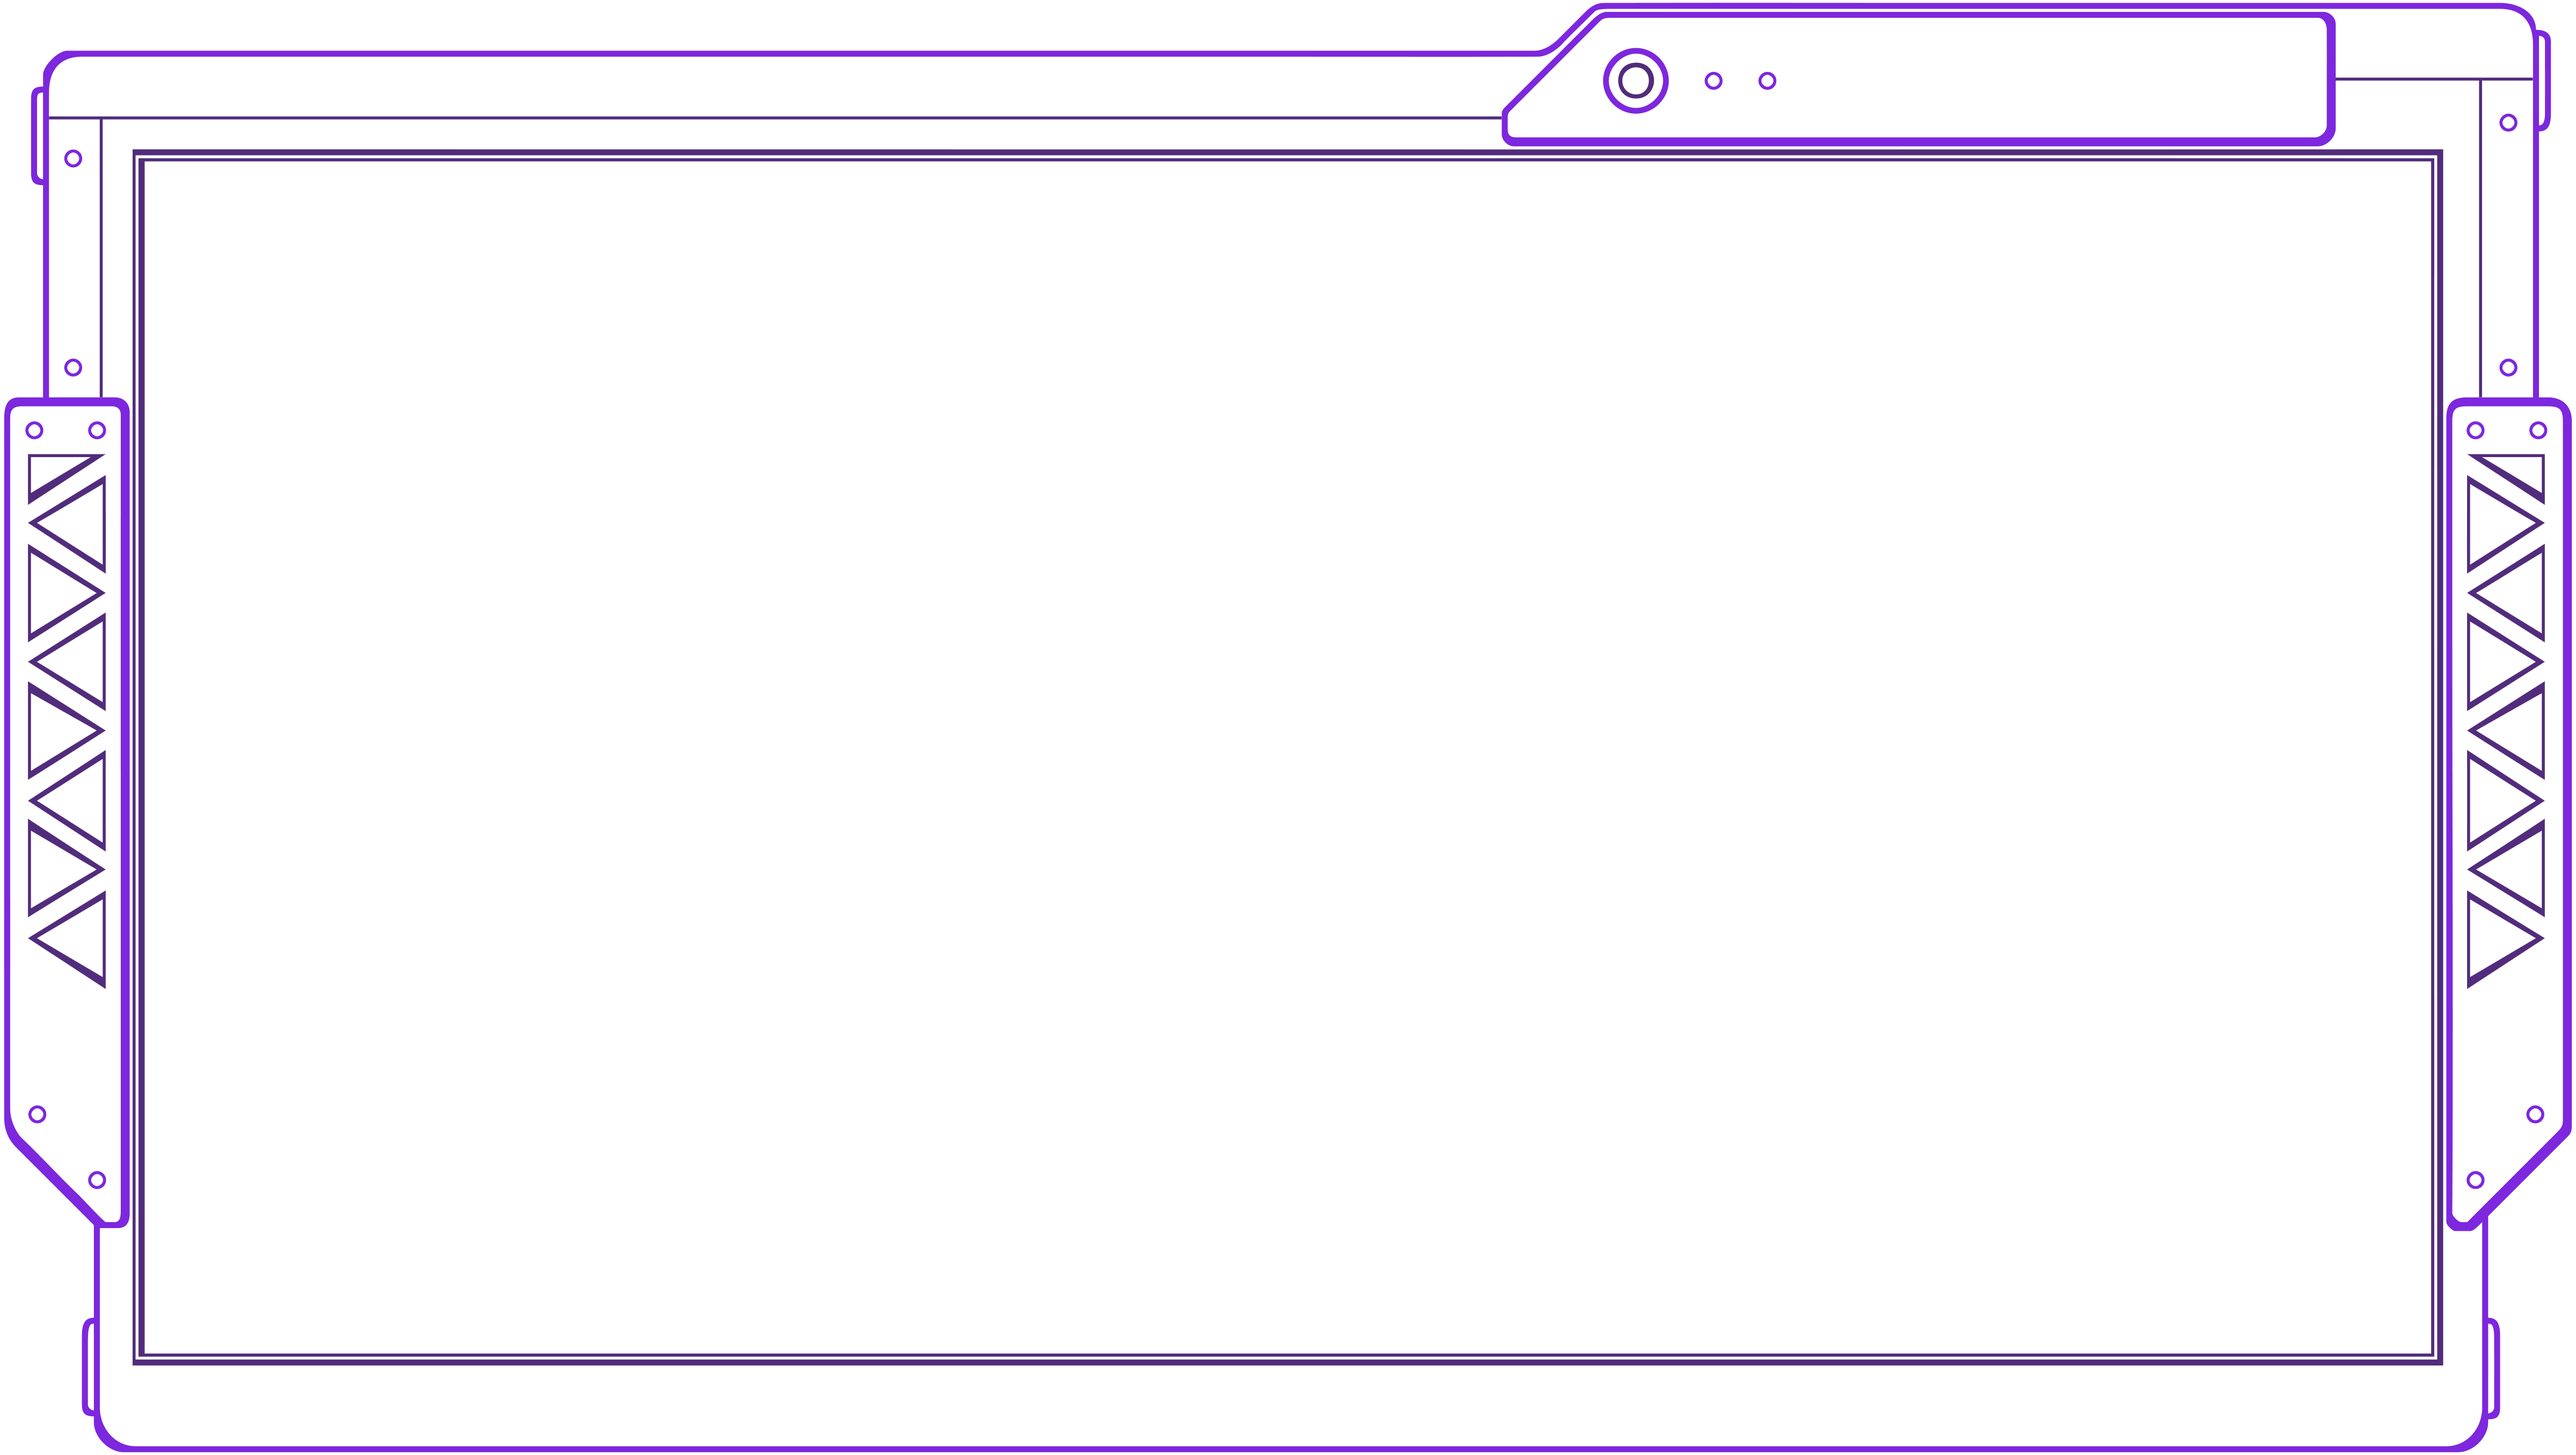
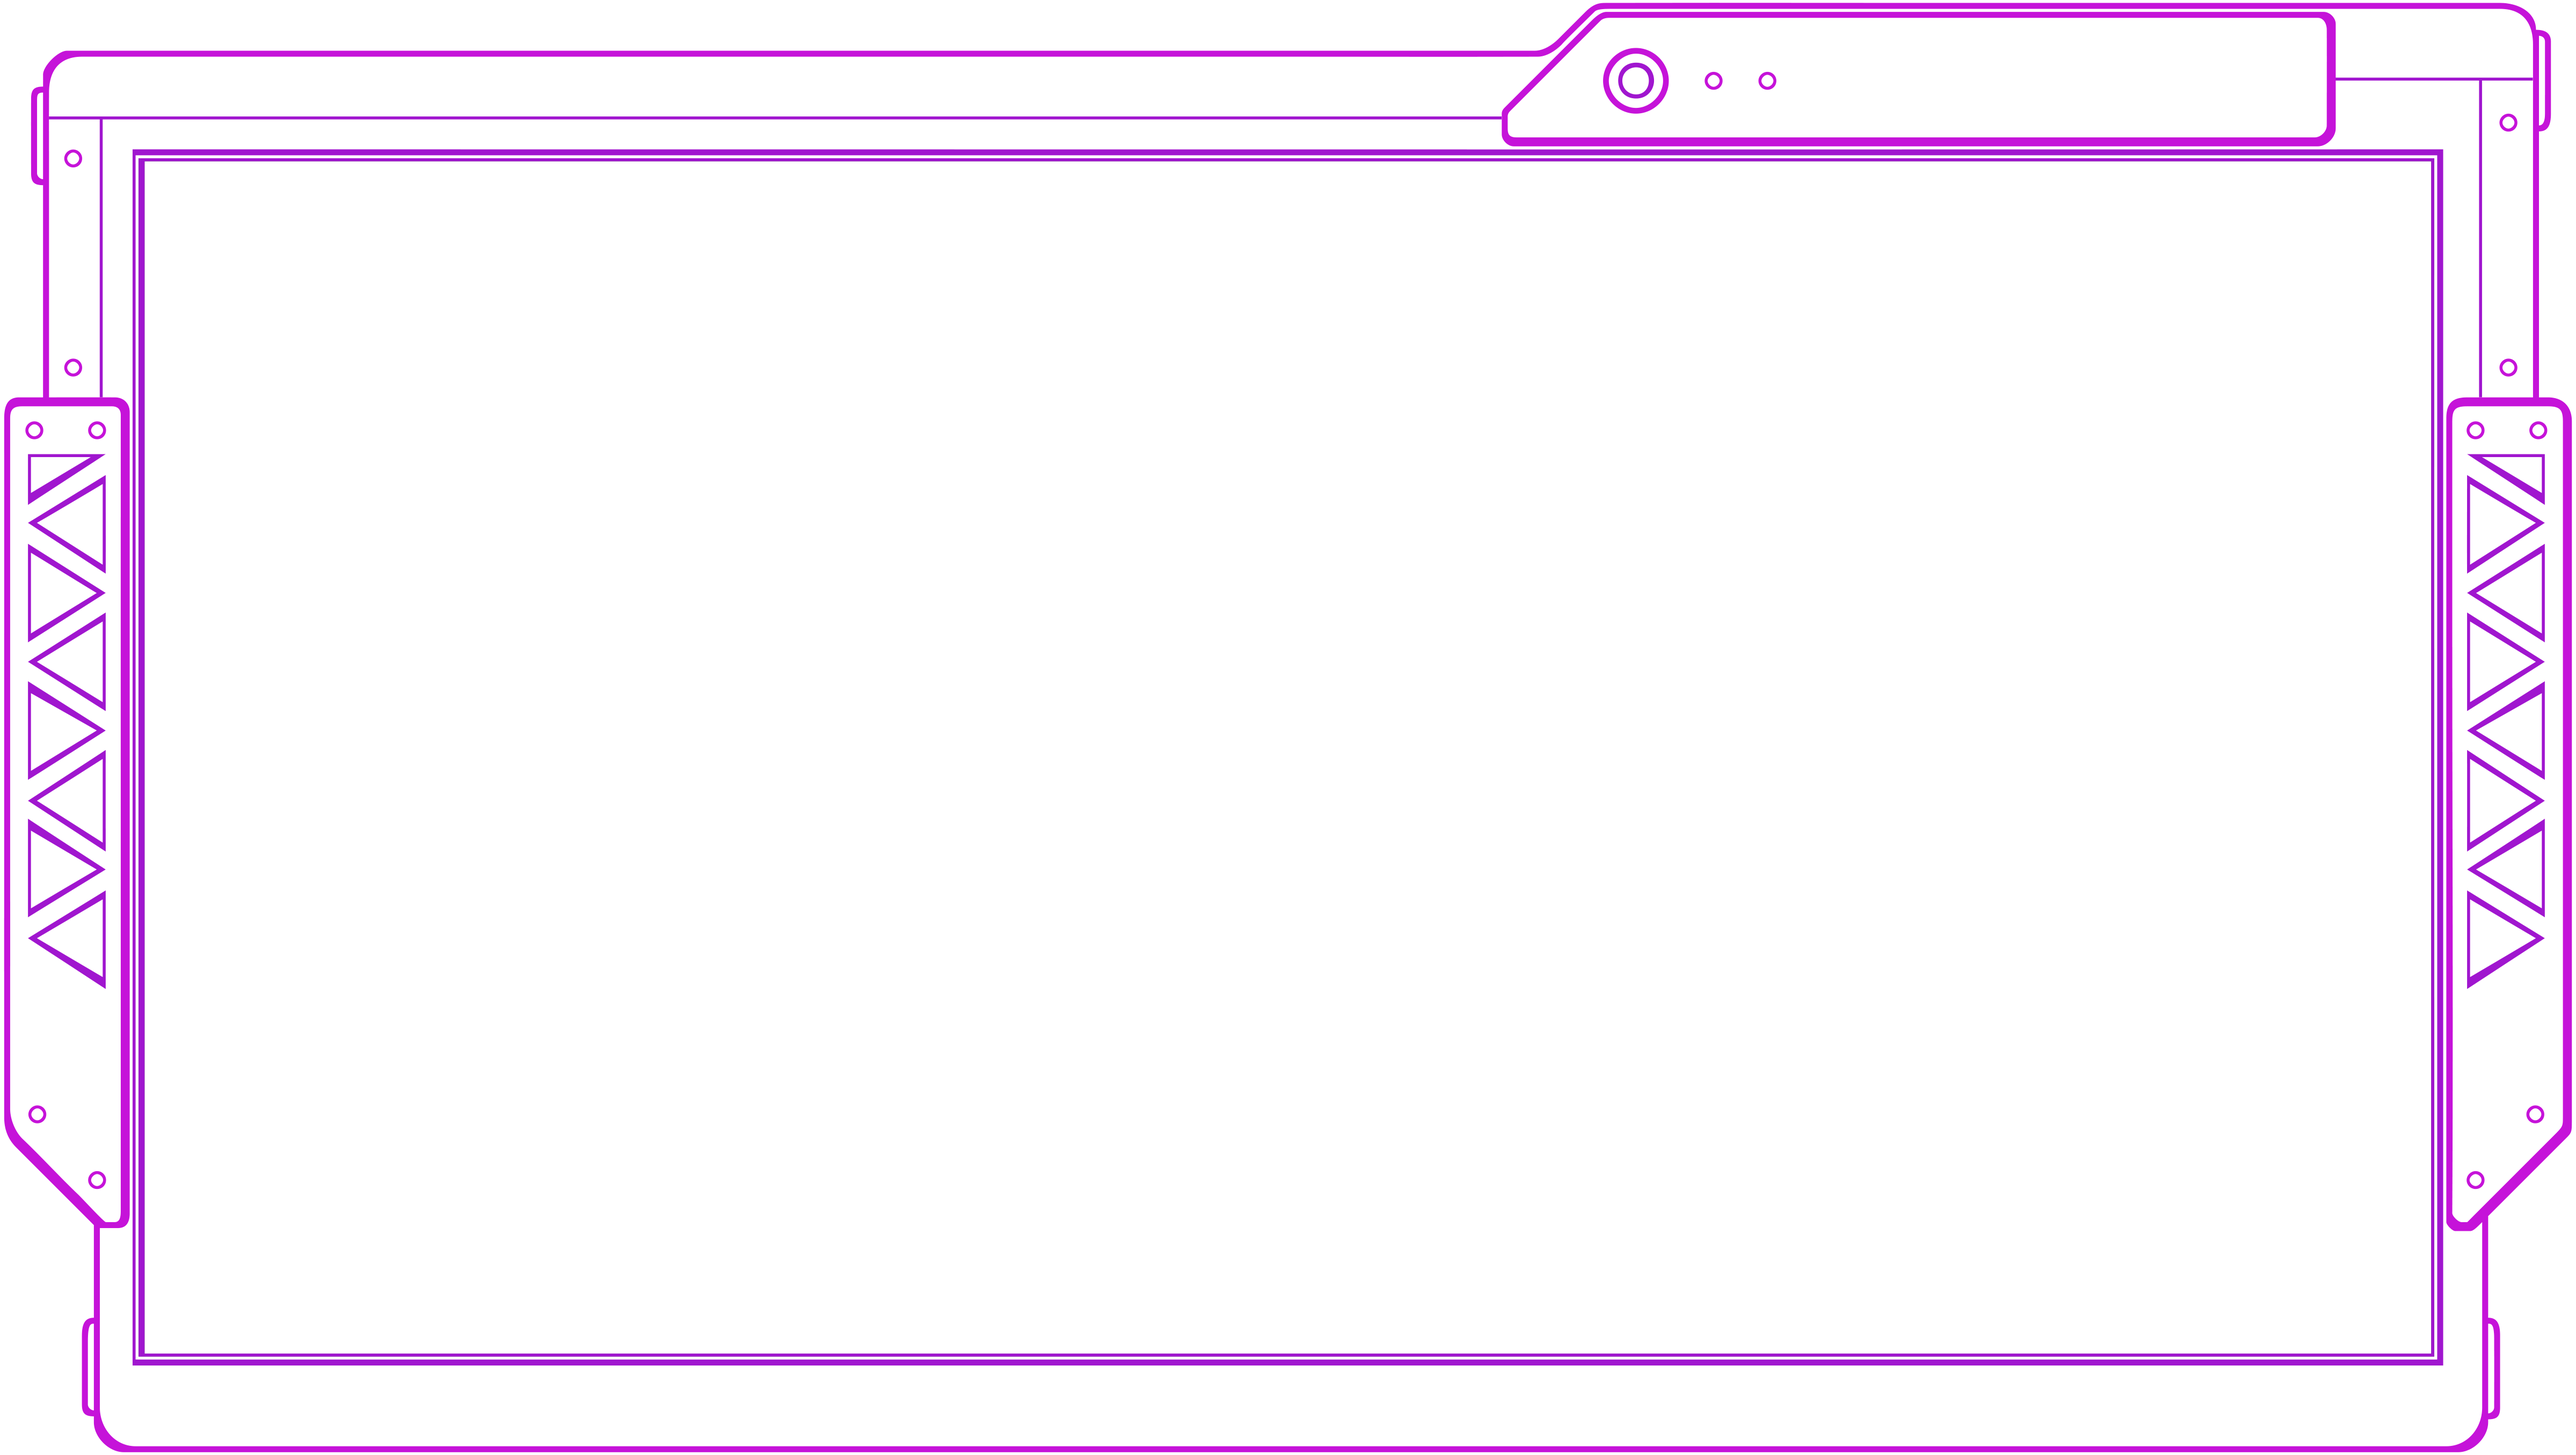
light theme change

Changed region(s): [[0.0, 0.0, 1.0, 1.0]]

diff --git a/src/components/Main/projects/index.jsx b/src/components/Main/projects/index.jsx
@@ -100,8 +100,8 @@ const Projects = () => {
           <div className="absolute bottom-1.5 left-1.5 md:bottom-4 md:left-4 " onClick={pausePlay}>
             <Tooltip content="Autoplay" trigger="hover" placement="left" animation="duration-500" style="auto" theme={tooltipStyle}>
               <div className="flex" onClick={pausePlay}>
-                <HiOutlinePlay size={24} className={`${play ? " text-purple-700" : "text-purple-700/50"} transition-all duration-200`} />
-                <HiOutlinePause size={24} className={`${play ? "text-purple-700/50" : " text-purple-700"} transition-all duration-200`} />
+                <HiOutlinePlay size={24} className={`${play ? " text-purple-700" : "text-purple-700/40 stroke-2"} transition-all duration-200`} />
+                <HiOutlinePause size={24} className={`${play ? "text-purple-700/40" : " text-purple-700 stroke-2"} transition-all duration-200`} />
               </div>
             </Tooltip>
           </div>

diff --git a/src/components/Main/projects/project.js b/src/components/Main/projects/project.js
@@ -13,7 +13,7 @@ const RenderProject = ({ project, index, handleOpen, tooltipStyle, setPlay }) =>
     <>
       <div
         id={project.id}
-        className={`h-full max-h-full p-4 md:p-6 overflow-hidden border-purple-700 dark:border-gray-800 ${index % 2 == 0 ? "bg-white dark:bg-black" : "bg-fuchsia-100 dark:bg-neutral-950"}`}
+        className={`h-full max-h-full p-4 md:p-6 overflow-hidden border-purple-700 dark:border-gray-800 ${index % 2 == 0 ? "bg-white dark:bg-black" : "bg-neutral-50 dark:bg-neutral-950"}`}
       >
         {/* <hr className="sticky top-0 z-10 -mx-1 border-gray-800 border-1 h-min group-first-of-type:hidden [:nth-of-type(2)_&]:-top-[1px]" /> */}
         {/* title */}

diff --git a/src/components/Frame/index.jsx b/src/components/Frame/index.jsx
@@ -112,7 +112,7 @@ const Frame = () => {
                 </p>
               </div>
               <div className="h-full w-full py-[36px] pl-[41px] pr-[24px] md:py-[55px] md:pl-[61px] md:pr-[36px] lg:pt-[53px] lg:pb-[35px] lg:px-[42px] xl:pt-[81px] xl:pb-[53px] xl:px-[62px] z-0 ">
-                <div className="w-full h-full bg-white/50 dark:bg-purple-950/20">
+                <div className="w-full h-full bg-white/80 dark:bg-neutral-950/30">
                   <Outlet context={[toast, setToast]} />
                 </div>
               </div>

diff --git a/src/App.js b/src/App.js
@@ -10,7 +10,7 @@ import Background from "./components/Frame/background";
 
 function App() {
   return (
-    <div className="min-h-screen overflow-hidden flex transition-colors text-black dark:bg-black bg-fuchsia-100/70 dark:text-white duration-400 font-['Roboto_Condensed']">
+    <div className="min-h-screen overflow-hidden flex transition-colors text-black dark:bg-black bg-gray-300/30 dark:text-white duration-400 font-['Roboto_Condensed']">
       <Background />
       <BrowserRouter>
         <Routes>

diff --git a/src/components/Main/about/index.jsx b/src/components/Main/about/index.jsx
@@ -42,7 +42,7 @@ const About = () => {
           </div>
         </div>
 
-        <Button className="box-content flex p-0 normal-case rounded bg-fuchsia-700/60 dark:bg-purple-950/60">
+        <Button className="box-content flex p-0 normal-case rounded bg-fuchsia-700/60 dark:bg-purple-950/80">
           <a className="px-4 py-2" href={t("curriculumLink")} target="_blank">
             {t("curriculum")}
           </a>
